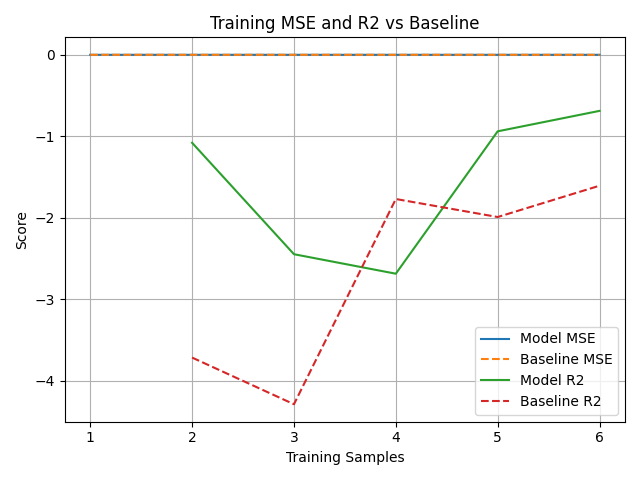
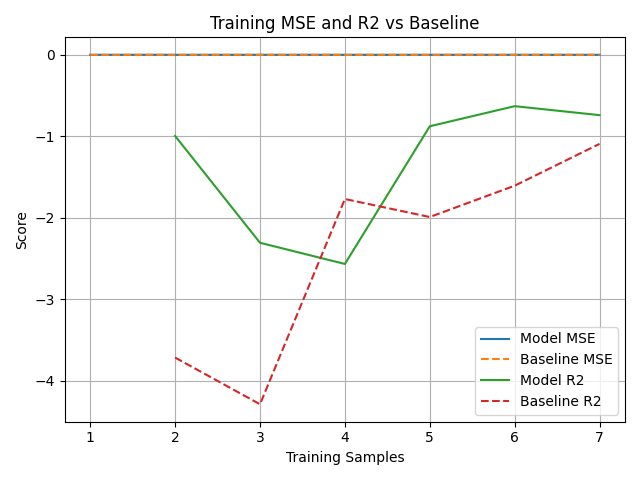
更新圖表繪製，丟棄重複因子，調整llm參數與規範輸出格式

diff --git a/train_model.py b/train_model.py
@@ -9,8 +9,6 @@ import numpy as np
 import matplotlib.pyplot as plt
 import config
 
-
-
 # 確保 model 資料夾存在
 os.makedirs("model", exist_ok=True)
 
@@ -18,97 +16,64 @@ class SimpleFactorModel:
     def __init__(self):
         self.model = SGDRegressor()
         self.scaler = StandardScaler()
-        self.is_trained = False
 
     def train(self, X, y):
-        mse_list = []
-        r2_list = []
-        baseline_mse_list = []
-        baseline_r2_list = []
-        sample_counts = []
+        # 重新 fit scaler 並訓練模型
+        self.scaler.fit(X)
+        X_scaled = self.scaler.transform(X)
 
-        if not self.is_trained:
-            self.scaler.fit(X)
-            X_scaled = self.scaler.transform(X)
-            for i in range(len(X_scaled)):
-                Xi = X_scaled[i].reshape(1, -1)
-                yi = np.array([y[i]])
-                self.model.partial_fit(Xi, yi)
+        # 全量 fit
+        self.model = SGDRegressor()
+        self.model.fit(X_scaled, y)
 
-                y_true = y[:i+1]
-                y_pred = self.model.predict(X_scaled[:i+1])
+        # 模型預測
+        y_pred = self.model.predict(X_scaled)
+        y_baseline = y.shift(1).fillna(0).values
 
-                if i >= 1:
-                    y_baseline = np.roll(y_true, 1)
-                    y_baseline[0] = 0
-                else:
-                    y_baseline = np.zeros_like(y_true)
+        # 評估指標
+        mse = mean_squared_error(y, y_pred)
+        r2 = r2_score(y, y_pred)
+        base_mse = mean_squared_error(y, y_baseline)
+        base_r2 = r2_score(y, y_baseline)
 
-                mse = mean_squared_error(y_true, y_pred)
-                base_mse = mean_squared_error(y_true, y_baseline)
+        print("模型已重新訓練（全資料）。")
+        print(f"MSE: {mse:.6f}, R2: {r2:.4f}")
+        print(f"Baseline MSE: {base_mse:.6f}, Baseline R2: {base_r2:.4f}")
 
-                if len(y_true) >= 2:
-                    r2 = r2_score(y_true, y_pred)
-                    base_r2 = r2_score(y_true, y_baseline)
-                else:
-                    r2 = np.nan
-                    base_r2 = np.nan
+        # 繪製 MSE 圖
+        plt.figure()
+        plt.bar(['Model MSE', 'Baseline MSE'], [mse, base_mse], color=['blue', 'gray'])
+        plt.ylabel('MSE')
+        plt.title('Model vs Baseline MSE')
+        plt.tight_layout()
+        plt.savefig('model/mse_comparison.png')
+        plt.close()
 
-                mse_list.append(mse)
-                r2_list.append(r2)
-                baseline_mse_list.append(base_mse)
-                baseline_r2_list.append(base_r2)
-                sample_counts.append(i + 1)
-            self.is_trained = True
-            print("模型初次訓練（逐筆）完成。")
+        # 繪製 R2 圖
+        plt.figure()
+        plt.bar(['Model R2', 'Baseline R2'], [r2, base_r2], color=['green', 'gray'])
+        plt.ylabel('R2 Score')
+        plt.title('Model vs Baseline R2')
+        plt.tight_layout()
+        plt.savefig('model/r2_comparison.png')
+        plt.close()
 
-            if not os.path.exists(config.FIRST_TRAIN_FLAG):
-                df_save = X.copy()
-                df_save['target'] = y.values if isinstance(y, pd.Series) else y
-                df_save.to_csv("model/first_train_data.csv", index=False)
-                with open(config.FIRST_TRAIN_FLAG, "w") as f:
-                    f.write("done")
-                print("已儲存第一次訓練資料為 model/first_train_data.csv")
-        else:
-            X_scaled = self.scaler.transform(X)
-            self.model.partial_fit(X_scaled, y)
-            y_pred = self.model.predict(X_scaled)
-
-            y_baseline = y.shift(1).fillna(0).values
-
-            mse = mean_squared_error(y, y_pred)
-            r2 = r2_score(y, y_pred)
-            base_mse = mean_squared_error(y, y_baseline)
-            base_r2 = r2_score(y, y_baseline)
-
-            mse_list.append(mse)
-            r2_list.append(r2)
-            baseline_mse_list.append(base_mse)
-            baseline_r2_list.append(base_r2)
-            sample_counts.append(len(y))
-            print("完成一次增量訓練。")
-
-        # 繪圖
-        if mse_list and r2_list:
-            plt.figure()
-            plt.plot(sample_counts, mse_list, label='Model MSE')
-            plt.plot(sample_counts, baseline_mse_list, label='Baseline MSE', linestyle='--')
-            plt.plot(sample_counts, r2_list, label='Model R2')
-            plt.plot(sample_counts, baseline_r2_list, label='Baseline R2', linestyle='--')
-            plt.xlabel('Training Samples')
-            plt.ylabel('Score')
-            plt.title('Training MSE and R2 vs Baseline')
-            plt.legend()
-            plt.grid(True)
-            plt.tight_layout()
-            plt.savefig('model/training_metrics.png')
-            plt.close()
-            print("已儲存訓練過程評估圖表 model/training_metrics.png")
+        # 預測 vs 實際
+        plt.figure(figsize=(10, 4))
+        plt.plot(y.values, label='Actual', color='black')
+        plt.plot(y_pred, label='Predicted', color='blue', linestyle='--')
+        plt.title('Predicted vs Actual Returns')
+        plt.xlabel('Sample Index')
+        plt.ylabel('Return')
+        plt.legend()
+        plt.grid(True)
+        plt.tight_layout()
+        plt.savefig('model/pred_vs_actual.png')
+        plt.close()
 
     def predict(self, X):
         X_scaled = self.scaler.transform(X)
         return self.model.predict(X_scaled)
-
 
 def get_trained_until():
     if os.path.exists(config.TRAINED_UNTIL_PATH):
@@ -143,27 +108,16 @@ if __name__ == "__main__":
         df_train = pd.read_csv(csv_path, parse_dates=['date'])
         df_train = df_train.dropna(subset=['target'])
 
-        trained_until = get_trained_until()
-        if trained_until:
-            df_train = df_train[df_train['date'] > trained_until]
+        X = df_train.drop(['date', 'close', 'target'], axis=1)
+        y = df_train['target']
 
-        if df_train.empty:
-            print("沒有新資料可訓練，跳過。")
-        else:
-            X = df_train.drop(['date', 'close', 'target'], axis=1)
-            y = df_train['target']
+        model = SimpleFactorModel()
+        model.train(X, y)
+        joblib.dump(model, config.MODEL_PATH)
+        joblib.dump(model.scaler, config.SCALER_PATH)
+        update_trained_until(df_train['date'].max())
 
-            if os.path.exists(config.MODEL_PATH):
-                model = joblib.load(config.MODEL_PATH)
-            else:
-                model = SimpleFactorModel()
-
-            model.train(X, y)
-            joblib.dump(model, config.MODEL_PATH)
-            joblib.dump(model.scaler, config.SCALER_PATH)
-            update_trained_until(df_train['date'].max())
-
-            print("模型與標準化器已訓練並保存。")
+        print("模型與標準化器已訓練並保存。")
 
     except Exception as e:
         print(f"訓練過程發生錯誤：{e}")

diff --git a/analyzer.py b/analyzer.py
@@ -3,7 +3,6 @@ from groq import Groq
 import json
 
 GROQ_API_KEY = dotenv_values().get("GROQ_API_KEY")
-# print(GROQ_API_KEY)
 client = Groq(api_key=GROQ_API_KEY)
 
 def sentiment_to_num(x):
@@ -18,11 +17,11 @@ def sentiment_to_num(x):
     
 def analyze_with_groq( new : dict[str, str] ,ticker)-> str:
     prompt = f"""
-你是一位專業的台股投資分析師，請根據以下新聞內容，完全按照下列格式回傳對台股「{ticker}」的影響指標，不要其他描述。
+你是一位專業的台股投資分析師，請根據以下新聞內容，以json格式回傳該新聞對台股「{ticker}」的影響指標，不要其他描述。
 {{
-  "sentiment_score": 0~100,
-  "volatility_hint": 0~100,
-  "confidence_level": 0~100,
+  "sentiment_score": 0~100(極端負面~極端正面),
+  "volatility_hint": 0~100(暗示市場平穩~暗示市場可能有極大波動),
+  "confidence_level": 0~100(你對於這篇新聞分析的把握程度；若此新聞與股市不相關，請將此項訂為0),
   "positive_neutral_negative": "positive" 或 "neutral" 或 "negative"
 }}
 新聞:{new['content']}
@@ -36,6 +35,8 @@ def analyze_with_groq( new : dict[str, str] ,ticker)-> str:
             }
         ],
         model="llama-3.1-8b-instant",
+        response_format={"type": "json_object"},
+        temperature=0
     )
 
     answer = chat_completion.choices[0].message.content
@@ -50,4 +51,14 @@ def analyze_with_groq( new : dict[str, str] ,ticker)-> str:
         new_score = None
     return new_score
 
-# print(analyze_with_groq({"title":"test","content":"test"},"^TWII"))
+# print(analyze_with_groq({"title":"test","content":'''【時報編譯柳繼剛綜合外電報導】美國總統川普在自己的社交平台Truth Social上發文說，要把進口到美國的鋼鐵以及鋁製品關稅，提高一倍到50%，且將於六月4日生效，包括韓國與越南等主要輸美的亞洲煉鋼廠，股價在二日交易時，大部分都大幅走低。
+
+# 收盤時，韓國最大的鋼鐵業者浦項鋼鐵（POSCO）大跌2.4%，現代汽車集團旗下的現代鋼鐵（Hyundai Steel）也大跌2.7%。同時，SeAH鋼鐵一度更是狂跌18%，跌幅最後收斂在8%。
+
+# 在港交所掛牌的中國大陸國有煉鋼廠中，重慶鋼鐵大跌2.3%，馬鞍山鋼鐵收跌1.1%，鞍鋼也跌1.3%，恆生指數二日跌0.7%左右。同時，中國鋁業跌0.2%，中國宏橋也收跌0.57%。
+
+# 以韓國來說，鋼鐵業者表示，50%的關稅將為韓國鋼鐵出口業者帶來更多挑戰。美國鋼鐵價格已上漲，但為了避免受到美國政府的審查，其實韓國出口商一直沒有大幅增加輸美的產品。
+
+# 業者坦言，如果美國鋼鐵價格不再繼續上漲，出口商要承擔的成本會很高。韓國政府二日表示，已跟浦項鋼鐵以及現代鋼鐵在內，韓國幾個大型煉鋼廠的高層開過緊急會議。
+
+# 不過，BlueScope在澳洲證交所（ASX）的股價，早盤一度飆升近10%，最後收盤也大漲4.4%，因為這家澳洲的鋼鐵巨擘在北美有好幾個鋼鐵事業，包括位於俄亥俄州的北極星（North Star）煉鋼廠。'''},"^TWII"))
